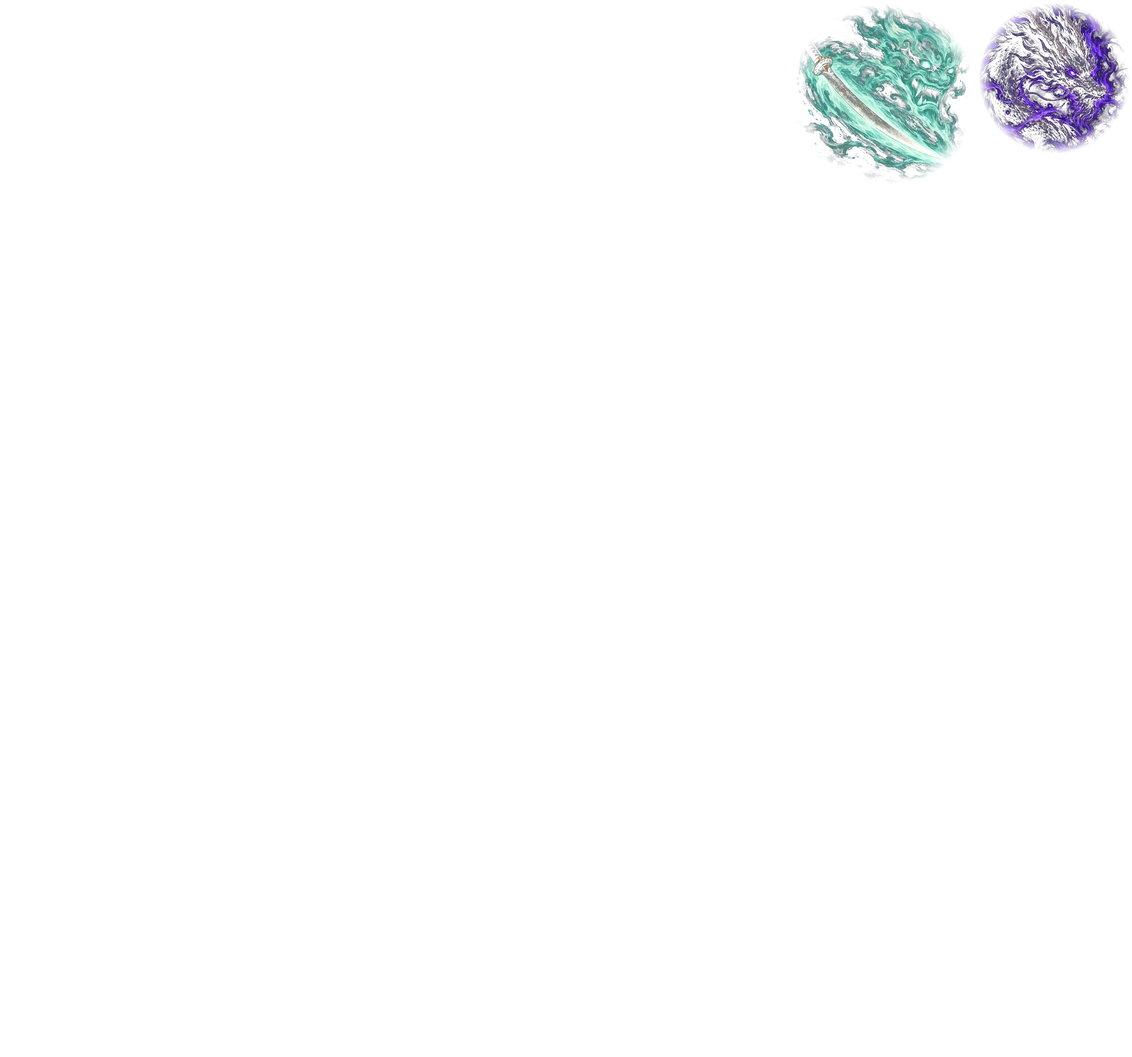
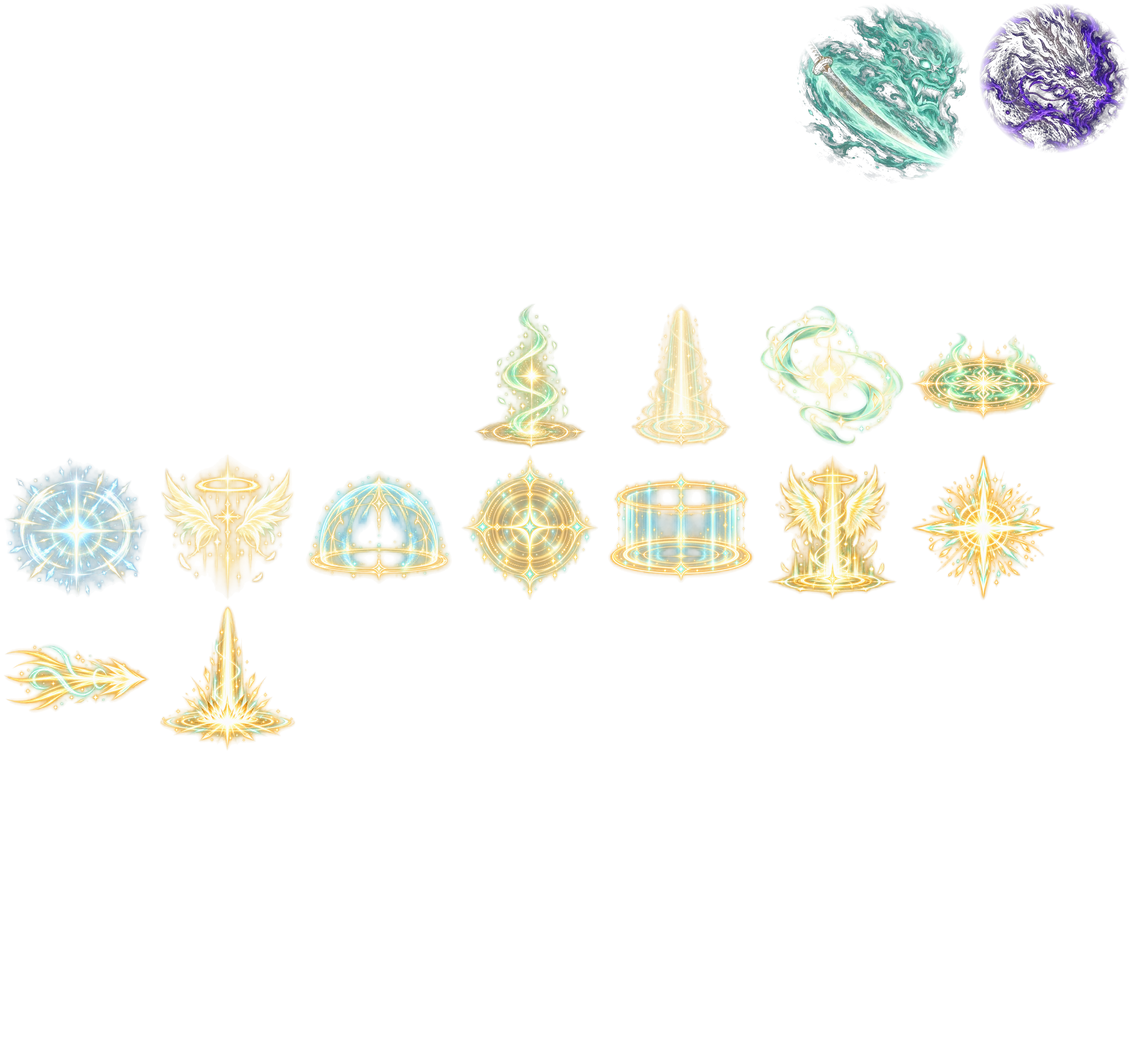
V032: 힐러 (신) 공격 기술 이펙트 교체
Claude-Session: https://claude.ai/code/session_01N3yxjf91oYEcwa6fGZuT1R

Changed region(s): [[0.0, 0.2769, 0.924, 0.7077], [0.0, 0.6154, 0.1232, 0.6769]]

diff --git a/index.html b/index.html
@@ -499,7 +499,7 @@ table.st tr+tr{border-top:1px solid rgba(232,224,204,.07)}
   <div class="screen" id="title">
     <!-- V010: 그려진 타이틀 화면. 그림 속 버튼 자리에 투명한 진짜 버튼을 겹쳐 둔다 (위치는 그림 크기 대비 %) -->
     <div class="tart" role="img" aria-label="혈월야행 · 핏빛 달 아래, 이름 잃은 망자의 끝없는 사냥">
-      <span class="tver num" id="tVer">V031</span>
+      <span class="tver num" id="tVer">V032</span>
       <button class="thot" id="bNew" aria-label="새로 깨어나기"></button>
       <button class="thot" id="bCont" aria-label="이어하기"></button>
       <button class="thot" id="fsTitle" aria-label="전체화면으로"></button>
@@ -1709,19 +1709,19 @@ const SK={
  healer:[
   {n:'정화구',g:'光',cd:.7,range:480,desc:'정화의 빛구슬을 쏘아 적을 공격한다.',
    tip:s=>[['피해',PCT(1.1)],['효과','적을 살짝 쫓아간다']],
-   f(s){const t=nearest(pl.x,pl.y,s.range);if(!t)return 0;const a=aimAt(t);shoot({x:pl.x,y:pl.y,vx:Math.cos(a)*600,vy:Math.sin(a)*600,r:9,dmg:s.dmg(1.1),st:'light',c:'#f6eec0',l:1.1,home:3});return 1}},
+   f(s){const t=nearest(pl.x,pl.y,s.range);if(!t)return 0;const a=aimAt(t);shoot({x:pl.x,y:pl.y,vx:Math.cos(a)*600,vy:Math.sin(a)*600,r:9,dmg:s.dmg(1.1),st:'light',c:'#f6eec0',l:1.1,home:3,onHit:(p,e)=>KX.lightHit(e.x,e.y)});return 1}},
   {n:'정화의 빛',g:'癒',cd:5,range:210,desc:'몸에서 정화의 빛을 터뜨려 주변 적에게 피해를 주고 잠시 둔화시킨다. 덤으로 체력을 회복한다.',
    tip:s=>[['피해',PCT(1.7)],['범위',`자신 주변 반경 ${Math.round(s.R(200))}`],['회복','최대 체력 6.5%'],['효과','둔화 1.2초']],
    f(s){if(!nearest(pl.x,pl.y,s.R(s.range))&&pl.hp>pl.d.mhp*.6)return 0;hitCircle(pl.x,pl.y,s.R(200),s.dmg(1.7),{slow:1.2,kb:90});healPlayer(pl.d.mhp*.065);KX.h1(s.R(1));return 1}},
   {n:'성십자',g:'十',cd:8,range:460,desc:'빛의 십자가를 던진다. 날아간 자리에 박혀 2.5초 동안 주변 적을 끌어당기며 계속 피해를 준다.',
    tip:s=>[['피해',`${PCT(1.3)} + ${PCT(.6)} × 약 8회`],['범위',`끌어당김 반경 ${Math.round(s.R(230))}`],['지속','2.5초']],
-   f(s){const t=densest(s.range,160);if(!t)return 0;const a=aimAt(t),d=Math.min(Math.hypot(t.x-pl.x,t.y-pl.y),440),sp=1100,l=d/sp,r=s.R(230);shoot({x:pl.x,y:pl.y,vx:Math.cos(a)*sp,vy:Math.sin(a)*sp,r:16,pierce:99,dmg:s.dmg(1.3),st:'cross',c:'#fff3c4',l,onEnd:p=>{addZone({x:p.x,y:p.y,r,l:2.5,tick:.3,dmg:s.dmg(.6),c:'#fff3c4',kind:'pull',pull:300});kring(p.x,p.y,'#fff3c4',r,20,.5);kflash(p.x,p.y-30,'#fff3c4',150,.25);shake(4)}});return 1}},
+   f(s){const t=densest(s.range,160);if(!t)return 0;const a=aimAt(t),d=Math.min(Math.hypot(t.x-pl.x,t.y-pl.y),440),sp=1100,l=d/sp,r=s.R(230);shoot({x:pl.x,y:pl.y,vx:Math.cos(a)*sp,vy:Math.sin(a)*sp,r:16,pierce:99,dmg:s.dmg(1.3),st:'cross',c:'#fff3c4',l,onEnd:p=>{addZone({x:p.x,y:p.y,r,l:2.5,tick:.3,dmg:s.dmg(.6),c:'#fff3c4',kind:'pull',pull:300});KX.crossEnd(p.x,p.y,r);shake(4)}});return 1}},
   {n:'축복',g:'祝',cd:16,range:420,buff:1,desc:'스스로에게 축복을 내린다.',
    tip:s=>[['지속','8초'],['효과','공격력 +35% · 이동속도 +20% · 기술 회전 +15%']],
    f(s){if(!nearest(pl.x,pl.y,s.range))return 0;pl.buffs.bless=8;KX.h3();addText(pl.x,pl.y-44,'축복','#f3cf45',15);return 1}},
   {n:'천벌',g:'罰',cd:20,range:560,desc:'주변 적 최대 여덟에게 빛기둥을 내리꽂아 큰 피해를 주고 기절시킨다.',
    tip:s=>[['피해',`${PCT(3.8)} × 최대 8곳`],['범위',`기둥마다 반경 ${Math.round(s.R(80))}`],['효과','기절 0.8초']],
-   f(s){const ts=nearestN(pl.x,pl.y,s.range,8);if(!ts.length)return 0;aimAt(ts[0]);const r=s.R(80);ts.forEach((t,i)=>{const x=t.x,y=t.y;kp('magic_03',x,y,{c:'#ffe08a',s:130*r/80,s1:70*r/80,l:.3+i*.06,gnd:1,vr:3,fi:.05});later(.3+i*.06,()=>{hitCircle(x,y,r,s.dmg(3.8),{stun:.8});KX.smite(x,y,i<3,r/80)})});shake(8);return 1}}]};
+   f(s){const ts=nearestN(pl.x,pl.y,s.range,8);if(!ts.length)return 0;aimAt(ts[0]);const r=s.R(80);ts.forEach((t,i)=>{const x=t.x,y=t.y;KX.smiteMark(x,y,r,i);later(.3+i*.06,()=>{hitCircle(x,y,r,s.dmg(3.8),{stun:.8});KX.smite(x,y,i<3,r/80)})});shake(8);return 1}}]};
 /* 6세트 효과: 15레벨 기술(5번째)을 교체한다 */
 const SETN={warrior:'혈귀무신',archer:'만궁천랑',mage:'성운도사',healer:'천벌무녀'};
 const VOLLEY_T=6,VOLLEY_R=700;
@@ -1832,7 +1832,7 @@ const skKey=i=>i===4&&setCount()>=6?'set':String(i);
 const skFx=k=>(pl.set&&pl.set.skFx&&pl.set.skFx[k])||{};
 const fxOf=k=>{const f=skFx(k);return {off:!!f.off,old:f.v==='old',k}};
 /* 지금 (신) 이펙트가 따로 있는 기술 (없는 기술은 (구)와 같은 그림을 쓴다 · 앞으로 바뀌면 여기에 추가) */
-const FXNEW={warrior:{0:1,1:1,2:1,3:1,4:1,set:1},mage:{0:1,1:1,2:1,3:1,4:1,set:1}};
+const FXNEW={warrior:{0:1,1:1,2:1,3:1,4:1,set:1},mage:{0:1,1:1,2:1,3:1,4:1,set:1},healer:{0:1,1:1,2:1,4:1,set:1}};
 function later(t,fn){const c=FXC;G.timers.push({t,fn:c?()=>fxCtx(c,fn):fn})}
 function healPlayer(a){a*=healMul();const before=pl.hp;pl.hp=Math.min(pl.d.mhp,pl.hp+a);const got=pl.hp-before;if(got>=1)addText(pl.x,pl.y-36,'+'+fmt(got),'#7fe8b4',13)}
 function hurtPlayer(d){if(G.dead>0||pl.iframe>0||pl.dash>0||pl.buffs.r_inv>0)return;if(pl.buffs.iron>0)pl.ironAcc=(pl.ironAcc||0)+d;let dd=d*(1-pl.d.dr)*(1-(pl.d.pdr||0))*(pl.buffs.iron>0?.5:1);
@@ -3106,7 +3106,7 @@ const A=p=>(window.ASSETS&&window.ASSETS[p])||p;
 const IMG={},FLASH={},TINT={};
 /* V030 아틀라스: 작은 그림(이펙트 조각·장비/기술/메뉴 아이콘 등 186장)을 무손실로 3장에 모아 두고, 불러온 뒤 원래 크기 그대로 잘라 쓴다 (화질 변화 없음)
    ui:1 묶음은 화면 글자 사이에 넣는 <img>에도 쓰이므로 잘라 낸 그림을 주소(data URL)로 바꿔 A()가 돌려주게 한다 */
-const ATLAS=[{"f":"img/atlas_fx0.webp","ui":0,"it":{"img/k_msig1.webp":[4,4,512,512],"img/k_msig2.webp":[520,4,512,512],"img/k_mdrg.webp":[1036,4,320,320],"img/fx_w_ghost.webp":[1360,4,320,320],"img/fx_m_dragon.webp":[1684,4,260,260],"img/k_circle_02.webp":[4,520,256,256],"img/k_circle_03.webp":[264,520,256,256],"img/k_dirt_01.webp":[524,520,256,256],"img/k_light_01.webp":[784,520,256,256],"img/k_magic_01.webp":[1044,520,256,256],"img/k_magic_02.webp":[1304,520,256,256],"img/k_magic_03.webp":[1564,520,256,256],"img/k_mb0.webp":[4,780,256,256],"img/k_mb2.webp":[264,780,256,256],"img/k_mb3.webp":[524,780,256,256],"img/k_mc2.webp":[784,780,256,256],"img/k_mdb2.webp":[1044,780,256,256],"img/k_mdb3.webp":[1304,780,256,256],"img/k_mf7.webp":[1564,780,256,256],"img/k_mf8.webp":[4,1040,256,256],"img/k_mi0.webp":[264,1040,256,256],"img/k_mi14.webp":[524,1040,256,256],"img/k_mi15.webp":[784,1040,256,256],"img/k_mi5.webp":[1044,1040,256,256],"img/k_mi7.webp":[1304,1040,256,256],"img/k_mtail.webp":[1564,1040,256,256],"img/k_mwing.webp":[4,1300,256,256],"img/k_scorch_01.webp":[264,1300,256,256],"img/k_smoke_04.webp":[524,1300,256,256],"img/k_smoke_07.webp":[784,1300,256,256],"img/k_smoke_10.webp":[1044,1300,256,256],"img/k_spark_02.webp":[1304,1300,256,256],"img/k_twirl_01.webp":[1564,1300,256,256],"img/k_twirl_03.webp":[4,1560,256,256],"img/k_w101.webp":[264,1560,256,256],"img/k_w102.webp":[524,1560,256,256],"img/k_w110.webp":[784,1560,256,256],"img/k_w111.webp":[1044,1560,256,256],"img/k_w112.webp":[1304,1560,256,256],"img/k_w121.webp":[1564,1560,256,256]}},{"f":"img/atlas_fx1.webp","ui":0,"it":{"img/k_w122.webp":[4,4,256,256],"img/k_w123.webp":[264,4,256,256],"img/k_w132.webp":[524,4,256,256],"img/k_w202.webp":[784,4,256,256],"img/k_w230.webp":[1044,4,256,256],"img/k_w222.webp":[1304,4,249,249],"img/k_mfox.webp":[1557,4,247,247],"img/k_mbs.webp":[4,264,242,242],"img/k_w131.webp":[250,264,242,242],"img/k_w113.webp":[496,264,241,241],"img/k_w212.webp":[741,264,239,239],"img/k_mf0.webp":[984,264,235,235],"img/k_w221.webp":[1223,264,235,235],"img/k_mclaw.webp":[1462,264,232,232],"img/k_w223.webp":[1698,264,231,231],"img/k_w100.webp":[4,510,230,230],"img/k_w210.webp":[238,510,230,230],"img/k_w213.webp":[472,510,229,229],"img/k_w233.webp":[705,510,229,229],"img/k_w103.webp":[938,510,228,228],"img/k_mi6.webp":[1170,510,227,227],"img/k_w220.webp":[1401,510,227,227],"img/k_w203.webp":[1632,510,224,224],"img/k_mbo.webp":[4,744,223,223],"img/k_w021.webp":[231,744,220,220],"img/k_w020.webp":[455,744,219,219],"img/k_w231.webp":[678,744,219,219],"img/k_w232.webp":[901,744,218,218],"img/k_mf1.webp":[1123,744,217,217],"img/k_mw.webp":[1344,744,217,217],"img/k_w211.webp":[1565,744,217,217],"img/k_w130.webp":[1786,744,216,216],"img/k_w023.webp":[4,971,213,213],"img/k_w011.webp":[221,971,210,210],"img/k_mc1.webp":[435,971,205,205],"img/k_w002.webp":[644,971,205,205],"img/k_w201.webp":[853,971,204,204],"img/k_mf9.webp":[1061,971,201,201],"img/k_w133.webp":[1266,971,199,199],"img/k_mc3.webp":[1469,971,196,196],"img/k_w022.webp":[1669,971,194,194],"img/k_w031.webp":[4,1188,193,193],"img/k_w120.webp":[201,1188,193,193],"img/k_w200.webp":[398,1188,192,192],"img/k_w012.webp":[594,1188,183,183],"img/k_w013.webp":[781,1188,182,182],"img/k_w001.webp":[967,1188,181,181],"img/k_w003.webp":[1152,1188,174,174],"img/k_w000.webp":[1330,1188,171,171],"img/fx_m_tal.webp":[1505,1188,96,170],"img/k_w033.webp":[1605,1188,169,169],"img/k_w010.webp":[1778,1188,167,167],"img/fx_m_fox.webp":[4,1385,160,160],"img/fx_h_cross.webp":[168,1385,130,148],"img/k_mi8.webp":[302,1385,146,146],"img/k_w032.webp":[452,1385,140,140],"img/k_circle_05.webp":[596,1385,128,128],"img/k_fire_01.webp":[728,1385,128,128],"img/k_flame_05.webp":[860,1385,128,128],"img/k_flare_01.webp":[992,1385,128,128],"img/k_muzzle_02.webp":[1124,1385,128,128],"img/k_scorch_03.webp":[1256,1385,128,128],"img/k_scratch_01.webp":[1388,1385,128,128],"img/k_slash_01.webp":[1520,1385,128,128],"img/k_slash_03.webp":[1652,1385,128,128],"img/k_slash_04.webp":[1784,1385,128,128],"img/k_spark_05.webp":[1916,1385,128,128],"img/k_spark_07.webp":[4,1549,128,128],"img/k_star_04.webp":[136,1549,128,128],"img/k_star_06.webp":[268,1549,128,128],"img/k_star_08.webp":[400,1549,128,128],"img/k_star_09.webp":[532,1549,128,128],"img/k_trace_01.webp":[664,1549,128,128],"img/k_trace_04.webp":[796,1549,128,128],"img/k_w030.webp":[928,1549,117,117],"img/k_mf3.webp":[1049,1549,116,116],"img/k_mb5.webp":[1169,1549,88,88],"img/k_mi12.webp":[1261,1549,67,67],"img/fx_a_arrow.webp":[1332,1549,220,28]}},{"f":"img/atlas_ui0.webp","ui":1,"it":{"img/eq_0_armor.webp":[4,4,128,128],"img/eq_0_boots.webp":[136,4,128,128],"img/eq_0_helm.webp":[268,4,128,128],"img/eq_0_neck.webp":[400,4,128,128],"img/eq_0_ring.webp":[532,4,128,128],"img/eq_0_weapon.webp":[664,4,128,128],"img/eq_1_armor.webp":[796,4,128,128],"img/eq_1_boots.webp":[928,4,128,128],"img/eq_1_helm.webp":[1060,4,128,128],"img/eq_1_neck.webp":[1192,4,128,128],"img/eq_1_ring.webp":[1324,4,128,128],"img/eq_1_weapon.webp":[1456,4,128,128],"img/eq_2_armor.webp":[1588,4,128,128],"img/eq_2_boots.webp":[1720,4,128,128],"img/eq_2_helm.webp":[1852,4,128,128],"img/eq_2_neck.webp":[4,136,128,128],"img/eq_2_ring.webp":[136,136,128,128],"img/eq_2_weapon.webp":[268,136,128,128],"img/eq_3_armor.webp":[400,136,128,128],"img/eq_3_boots.webp":[532,136,128,128],"img/eq_3_helm.webp":[664,136,128,128],"img/eq_3_neck.webp":[796,136,128,128],"img/eq_3_ring.webp":[928,136,128,128],"img/eq_3_weapon.webp":[1060,136,128,128],"img/eq_4_armor.webp":[1192,136,128,128],"img/eq_4_boots.webp":[1324,136,128,128],"img/eq_4_helm.webp":[1456,136,128,128],"img/eq_4_neck.webp":[1588,136,128,128],"img/eq_4_ring.webp":[1720,136,128,128],"img/eq_4_weapon.webp":[1852,136,128,128],"img/eq_5_armor.webp":[4,268,128,128],"img/eq_5_boots.webp":[136,268,128,128],"img/eq_5_helm.webp":[268,268,128,128],"img/eq_5_neck.webp":[400,268,128,128],"img/eq_5_ring.webp":[532,268,128,128],"img/eq_5_weapon.webp":[664,268,128,128],"img/eq_6_armor.webp":[796,268,128,128],"img/eq_6_boots.webp":[928,268,128,128],"img/eq_6_helm.webp":[1060,268,128,128],"img/eq_6_neck.webp":[1192,268,128,128],"img/eq_6_ring.webp":[1324,268,128,128],"img/eq_6_weapon.webp":[1456,268,128,128],"img/eq_7_armor.webp":[1588,268,128,128],"img/eq_7_boots.webp":[1720,268,128,128],"img/eq_7_helm.webp":[1852,268,128,128],"img/eq_7_neck.webp":[4,400,128,128],"img/eq_7_ring.webp":[136,400,128,128],"img/eq_7_weapon.webp":[268,400,128,128],"img/hud_archer.webp":[400,400,128,128],"img/hud_archer_myth.webp":[532,400,128,128],"img/hud_healer.webp":[664,400,128,128],"img/hud_healer_myth.webp":[796,400,128,128],"img/hud_mage.webp":[928,400,128,128],"img/hud_mage_myth.webp":[1060,400,128,128],"img/hud_warrior.webp":[1192,400,128,128],"img/hud_warrior_myth.webp":[1324,400,128,128],"img/ic_armor.webp":[1456,400,128,128],"img/ic_boots.webp":[1588,400,128,128],"img/ic_helm.webp":[1720,400,128,128],"img/ic_neck.webp":[1852,400,128,128],"img/ic_ring.webp":[4,532,128,128],"img/ic_weapon.webp":[136,532,128,128],"img/pot_0.webp":[268,532,128,128],"img/pot_1.webp":[400,532,128,128],"img/pot_2.webp":[532,532,128,128],"img/sk_archer_0.webp":[664,532,128,128],"img/sk_archer_1.webp":[796,532,128,128],"img/sk_archer_2.webp":[928,532,128,128],"img/sk_archer_3.webp":[1060,532,128,128],"img/sk_archer_4.webp":[1192,532,128,128],"img/sk_archer_set.webp":[1324,532,128,128],"img/sk_dash.webp":[1456,532,128,128],"img/sk_healer_0.webp":[1588,532,128,128],"img/sk_healer_1.webp":[1720,532,128,128],"img/sk_healer_2.webp":[1852,532,128,128],"img/sk_healer_3.webp":[4,664,128,128],"img/sk_healer_4.webp":[136,664,128,128],"img/sk_healer_set.webp":[268,664,128,128],"img/sk_mage_0.webp":[400,664,128,128],"img/sk_mage_1.webp":[532,664,128,128],"img/sk_mage_2.webp":[664,664,128,128],"img/sk_mage_3.webp":[796,664,128,128],"img/sk_mage_4.webp":[928,664,128,128],"img/sk_mage_set.webp":[1060,664,128,128],"img/sk_warrior_0.webp":[1192,664,128,128],"img/sk_warrior_1.webp":[1324,664,128,128],"img/sk_warrior_2.webp":[1456,664,128,128],"img/sk_warrior_3.webp":[1588,664,128,128],"img/sk_warrior_4.webp":[1720,664,128,128],"img/sk_warrior_set.webp":[1852,664,128,128],"img/mi_ach.webp":[4,796,96,96],"img/mi_bag.webp":[104,796,96,96],"img/mi_map.webp":[204,796,96,96],"img/mi_party.webp":[304,796,96,96],"img/mi_pet.webp":[404,796,96,96],"img/mi_quest.webp":[504,796,96,96],"img/mi_relic.webp":[604,796,96,96],"img/mi_set.webp":[704,796,96,96],"img/mi_skill.webp":[804,796,96,96],"img/mi_stat.webp":[904,796,96,96]}}];
+const ATLAS=[{"f":"img/atlas_fx0.webp","ui":0,"it":{"img/k_msig1.webp":[4,4,512,512],"img/k_msig2.webp":[520,4,512,512],"img/k_mdrg.webp":[1036,4,320,320],"img/fx_w_ghost.webp":[1360,4,320,320],"img/fx_m_dragon.webp":[1684,4,260,260],"img/k_circle_02.webp":[4,520,256,256],"img/k_circle_03.webp":[264,520,256,256],"img/k_dirt_01.webp":[524,520,256,256],"img/k_h00.webp":[784,520,256,256],"img/k_h01.webp":[1044,520,256,256],"img/k_h02.webp":[1304,520,256,256],"img/k_h03.webp":[1564,520,256,256],"img/k_h10.webp":[4,780,256,256],"img/k_h13.webp":[264,780,256,256],"img/k_h20.webp":[524,780,256,256],"img/k_h21.webp":[784,780,256,256],"img/k_h23.webp":[1044,780,256,256],"img/k_h30.webp":[1304,780,256,256],"img/k_h31.webp":[1564,780,256,256],"img/k_h32.webp":[4,1040,256,256],"img/k_h33.webp":[264,1040,256,256],"img/k_light_01.webp":[524,1040,256,256],"img/k_magic_01.webp":[784,1040,256,256],"img/k_magic_02.webp":[1044,1040,256,256],"img/k_magic_03.webp":[1304,1040,256,256],"img/k_mb0.webp":[1564,1040,256,256],"img/k_mb2.webp":[4,1300,256,256],"img/k_mb3.webp":[264,1300,256,256],"img/k_mc2.webp":[524,1300,256,256],"img/k_mdb2.webp":[784,1300,256,256],"img/k_mdb3.webp":[1044,1300,256,256],"img/k_mf7.webp":[1304,1300,256,256],"img/k_mf8.webp":[1564,1300,256,256],"img/k_mi0.webp":[4,1560,256,256],"img/k_mi14.webp":[264,1560,256,256],"img/k_mi15.webp":[524,1560,256,256],"img/k_mi5.webp":[784,1560,256,256],"img/k_mi7.webp":[1044,1560,256,256],"img/k_mtail.webp":[1304,1560,256,256],"img/k_mwing.webp":[1564,1560,256,256]}},{"f":"img/atlas_fx1.webp","ui":0,"it":{"img/k_scorch_01.webp":[4,4,256,256],"img/k_smoke_04.webp":[264,4,256,256],"img/k_smoke_07.webp":[524,4,256,256],"img/k_smoke_10.webp":[784,4,256,256],"img/k_spark_02.webp":[1044,4,256,256],"img/k_twirl_01.webp":[1304,4,256,256],"img/k_twirl_03.webp":[1564,4,256,256],"img/k_w101.webp":[4,264,256,256],"img/k_w102.webp":[264,264,256,256],"img/k_w110.webp":[524,264,256,256],"img/k_w111.webp":[784,264,256,256],"img/k_w112.webp":[1044,264,256,256],"img/k_w121.webp":[1304,264,256,256],"img/k_w122.webp":[1564,264,256,256],"img/k_w123.webp":[4,524,256,256],"img/k_w132.webp":[264,524,256,256],"img/k_w202.webp":[524,524,256,256],"img/k_w230.webp":[784,524,256,256],"img/k_w222.webp":[1044,524,249,249],"img/k_mfox.webp":[1297,524,247,247],"img/k_mbs.webp":[1548,524,242,242],"img/k_w131.webp":[1794,524,242,242],"img/k_w113.webp":[4,784,241,241],"img/k_w212.webp":[249,784,239,239],"img/k_mf0.webp":[492,784,235,235],"img/k_w221.webp":[731,784,235,235],"img/k_mclaw.webp":[970,784,232,232],"img/k_w223.webp":[1206,784,231,231],"img/k_w100.webp":[1441,784,230,230],"img/k_w210.webp":[1675,784,230,230],"img/k_w213.webp":[4,1029,229,229],"img/k_w233.webp":[237,1029,229,229],"img/k_w103.webp":[470,1029,228,228],"img/k_mi6.webp":[702,1029,227,227],"img/k_w220.webp":[933,1029,227,227],"img/k_w203.webp":[1164,1029,224,224],"img/k_mbo.webp":[1392,1029,223,223],"img/k_w021.webp":[1619,1029,220,220],"img/k_w020.webp":[4,1262,219,219],"img/k_w231.webp":[227,1262,219,219],"img/k_w232.webp":[450,1262,218,218],"img/k_mf1.webp":[672,1262,217,217],"img/k_mw.webp":[893,1262,217,217],"img/k_w211.webp":[1114,1262,217,217],"img/k_w130.webp":[1335,1262,216,216],"img/k_w023.webp":[1555,1262,213,213],"img/k_w011.webp":[1772,1262,210,210],"img/k_mc1.webp":[4,1485,205,205],"img/k_w002.webp":[213,1485,205,205],"img/k_w201.webp":[422,1485,204,204],"img/k_mf9.webp":[630,1485,201,201],"img/k_w133.webp":[835,1485,199,199],"img/k_mc3.webp":[1038,1485,196,196],"img/k_w022.webp":[1238,1485,194,194],"img/k_w031.webp":[1436,1485,193,193],"img/k_w120.webp":[1633,1485,193,193],"img/k_w200.webp":[1830,1485,192,192],"img/k_w012.webp":[4,1694,183,183],"img/k_w013.webp":[191,1694,182,182],"img/k_w001.webp":[377,1694,181,181],"img/k_w003.webp":[562,1694,174,174],"img/k_w000.webp":[740,1694,171,171],"img/fx_m_tal.webp":[915,1694,96,170],"img/k_w033.webp":[1015,1694,169,169],"img/k_w010.webp":[1188,1694,167,167],"img/fx_m_fox.webp":[1359,1694,160,160],"img/fx_h_cross.webp":[1523,1694,130,148],"img/k_mi8.webp":[1657,1694,146,146],"img/k_w032.webp":[1807,1694,140,140],"img/k_circle_05.webp":[4,1881,128,128],"img/k_fire_01.webp":[136,1881,128,128],"img/k_flame_05.webp":[268,1881,128,128],"img/k_flare_01.webp":[400,1881,128,128],"img/k_muzzle_02.webp":[532,1881,128,128],"img/k_scorch_03.webp":[664,1881,128,128],"img/k_scratch_01.webp":[796,1881,128,128],"img/k_slash_01.webp":[928,1881,128,128],"img/k_slash_03.webp":[1060,1881,128,128],"img/k_slash_04.webp":[1192,1881,128,128],"img/k_spark_05.webp":[1324,1881,128,128],"img/k_spark_07.webp":[1456,1881,128,128],"img/k_star_04.webp":[1588,1881,128,128],"img/k_star_06.webp":[1720,1881,128,128],"img/k_star_08.webp":[1852,1881,128,128]}},{"f":"img/atlas_fx2.webp","ui":0,"it":{"img/k_star_09.webp":[4,4,128,128],"img/k_trace_01.webp":[136,4,128,128],"img/k_trace_04.webp":[268,4,128,128],"img/k_w030.webp":[400,4,117,117],"img/k_mf3.webp":[521,4,116,116],"img/k_mb5.webp":[641,4,88,88],"img/k_mi12.webp":[733,4,67,67],"img/fx_a_arrow.webp":[804,4,220,28]}},{"f":"img/atlas_ui0.webp","ui":1,"it":{"img/eq_0_armor.webp":[4,4,128,128],"img/eq_0_boots.webp":[136,4,128,128],"img/eq_0_helm.webp":[268,4,128,128],"img/eq_0_neck.webp":[400,4,128,128],"img/eq_0_ring.webp":[532,4,128,128],"img/eq_0_weapon.webp":[664,4,128,128],"img/eq_1_armor.webp":[796,4,128,128],"img/eq_1_boots.webp":[928,4,128,128],"img/eq_1_helm.webp":[1060,4,128,128],"img/eq_1_neck.webp":[1192,4,128,128],"img/eq_1_ring.webp":[1324,4,128,128],"img/eq_1_weapon.webp":[1456,4,128,128],"img/eq_2_armor.webp":[1588,4,128,128],"img/eq_2_boots.webp":[1720,4,128,128],"img/eq_2_helm.webp":[1852,4,128,128],"img/eq_2_neck.webp":[4,136,128,128],"img/eq_2_ring.webp":[136,136,128,128],"img/eq_2_weapon.webp":[268,136,128,128],"img/eq_3_armor.webp":[400,136,128,128],"img/eq_3_boots.webp":[532,136,128,128],"img/eq_3_helm.webp":[664,136,128,128],"img/eq_3_neck.webp":[796,136,128,128],"img/eq_3_ring.webp":[928,136,128,128],"img/eq_3_weapon.webp":[1060,136,128,128],"img/eq_4_armor.webp":[1192,136,128,128],"img/eq_4_boots.webp":[1324,136,128,128],"img/eq_4_helm.webp":[1456,136,128,128],"img/eq_4_neck.webp":[1588,136,128,128],"img/eq_4_ring.webp":[1720,136,128,128],"img/eq_4_weapon.webp":[1852,136,128,128],"img/eq_5_armor.webp":[4,268,128,128],"img/eq_5_boots.webp":[136,268,128,128],"img/eq_5_helm.webp":[268,268,128,128],"img/eq_5_neck.webp":[400,268,128,128],"img/eq_5_ring.webp":[532,268,128,128],"img/eq_5_weapon.webp":[664,268,128,128],"img/eq_6_armor.webp":[796,268,128,128],"img/eq_6_boots.webp":[928,268,128,128],"img/eq_6_helm.webp":[1060,268,128,128],"img/eq_6_neck.webp":[1192,268,128,128],"img/eq_6_ring.webp":[1324,268,128,128],"img/eq_6_weapon.webp":[1456,268,128,128],"img/eq_7_armor.webp":[1588,268,128,128],"img/eq_7_boots.webp":[1720,268,128,128],"img/eq_7_helm.webp":[1852,268,128,128],"img/eq_7_neck.webp":[4,400,128,128],"img/eq_7_ring.webp":[136,400,128,128],"img/eq_7_weapon.webp":[268,400,128,128],"img/hud_archer.webp":[400,400,128,128],"img/hud_archer_myth.webp":[532,400,128,128],"img/hud_healer.webp":[664,400,128,128],"img/hud_healer_myth.webp":[796,400,128,128],"img/hud_mage.webp":[928,400,128,128],"img/hud_mage_myth.webp":[1060,400,128,128],"img/hud_warrior.webp":[1192,400,128,128],"img/hud_warrior_myth.webp":[1324,400,128,128],"img/ic_armor.webp":[1456,400,128,128],"img/ic_boots.webp":[1588,400,128,128],"img/ic_helm.webp":[1720,400,128,128],"img/ic_neck.webp":[1852,400,128,128],"img/ic_ring.webp":[4,532,128,128],"img/ic_weapon.webp":[136,532,128,128],"img/pot_0.webp":[268,532,128,128],"img/pot_1.webp":[400,532,128,128],"img/pot_2.webp":[532,532,128,128],"img/sk_archer_0.webp":[664,532,128,128],"img/sk_archer_1.webp":[796,532,128,128],"img/sk_archer_2.webp":[928,532,128,128],"img/sk_archer_3.webp":[1060,532,128,128],"img/sk_archer_4.webp":[1192,532,128,128],"img/sk_archer_set.webp":[1324,532,128,128],"img/sk_dash.webp":[1456,532,128,128],"img/sk_healer_0.webp":[1588,532,128,128],"img/sk_healer_1.webp":[1720,532,128,128],"img/sk_healer_2.webp":[1852,532,128,128],"img/sk_healer_3.webp":[4,664,128,128],"img/sk_healer_4.webp":[136,664,128,128],"img/sk_healer_set.webp":[268,664,128,128],"img/sk_mage_0.webp":[400,664,128,128],"img/sk_mage_1.webp":[532,664,128,128],"img/sk_mage_2.webp":[664,664,128,128],"img/sk_mage_3.webp":[796,664,128,128],"img/sk_mage_4.webp":[928,664,128,128],"img/sk_mage_set.webp":[1060,664,128,128],"img/sk_warrior_0.webp":[1192,664,128,128],"img/sk_warrior_1.webp":[1324,664,128,128],"img/sk_warrior_2.webp":[1456,664,128,128],"img/sk_warrior_3.webp":[1588,664,128,128],"img/sk_warrior_4.webp":[1720,664,128,128],"img/sk_warrior_set.webp":[1852,664,128,128],"img/mi_ach.webp":[4,796,96,96],"img/mi_bag.webp":[104,796,96,96],"img/mi_map.webp":[204,796,96,96],"img/mi_party.webp":[304,796,96,96],"img/mi_pet.webp":[404,796,96,96],"img/mi_quest.webp":[504,796,96,96],"img/mi_relic.webp":[604,796,96,96],"img/mi_set.webp":[704,796,96,96],"img/mi_skill.webp":[804,796,96,96],"img/mi_stat.webp":[904,796,96,96]}}];
 const ATL={map:{},cv:{}};window.ASSETS=window.ASSETS||{};
 ATLAS.forEach(a=>{for(const p in a.it)ATL.map[p]=1});
 ATL.ready=Promise.all(ATLAS.map(a=>new Promise(res=>{const im=new Image();im.onerror=()=>res();im.onload=()=>{
@@ -3292,8 +3292,8 @@ function drawZone(c,z){const a=Math.min(1,z.l*2.5,(z.ml-z.l)*6+.2),t=G.t;if(z.fx
    case'cloud':{if(!(z.fx&&z.fx.old)){MXD.cloud(c,z,a,t);break}const cy=-200;for(let i=0;i<5;i++){const ox=(i-2)*40+Math.sin(t*1.1+i)*8,oy=cy+Math.sin(t*1.5+i*1.7)*6+(i%2)*16;kdraw(c,i%2?'smoke_07':'smoke_04','#221a36',ox,oy,160,t*.1*(i%2?1:-1)+i,a*.9)}c.globalCompositeOperation='lighter';const fl=(Math.sin(t*23)>.75||Math.sin(t*7.3)>.93)?1:0;kdraw(c,'spark_02','#c9b8ff',Math.sin(t*3)*30,cy,180,t*.3,a*(.2+fl*.6));kdraw(c,'circle_05','#7a5cff',0,cy,280,0,a*(.15+fl*.3),1,.5);c.globalCompositeOperation='source-over';c.strokeStyle='rgba(185,168,255,.18)';c.lineWidth=1;c.beginPath();c.arc(0,0,z.r,0,TAU);c.stroke();break}
    case'whirl':{c.globalCompositeOperation='lighter';const S=z.r*2.2;kdraw(c,'twirl_01','#ff8a4c',0,-14,S,-t*9,a*.9);kdraw(c,'twirl_03','#ffe0c8',0,-14,S*.78,-t*12+1,a*.65);kdraw(c,'circle_05','#ff6a2a',0,-14,S*.55,0,a*.22);break}
    case'tals':{c.rotate(t*4);for(let i=0;i<10;i++){c.save();c.rotate(i*TAU/10);c.translate(z.r*.85,0);c.rotate(t*6);c.fillStyle='#f3cf45';c.fillRect(-5,-8,10,16);c.fillStyle='#b8283c';c.fillRect(-1.5,-6,3,12);c.restore()}break}
-   case'pull':{c.globalCompositeOperation='lighter';kdraw(c,'magic_02','#ffe08a',0,0,z.r*2.2,t*1.2,a*.5);kdraw(c,'twirl_03','#fff3c4',0,0,z.r*1.9,-t*5,a*.5);kdraw(c,'light_01','#fff3c4',0,-60,150,0,a*.45);if(IMG.fx_h_cross){c.globalAlpha=a*.9;c.drawImage(IMG.fx_h_cross,-40,-110,80,92)}break}
-   case'holy':{const b=Math.min(1,(z.ml-z.l)/.4);c.globalCompositeOperation='lighter';kdraw(c,'magic_01','#ffe08a',0,0,z.r*2.25*(.7+.3*b),t*.35,a*.55);kdraw(c,'circle_03','#fff3c4',0,0,z.r*2.6,0,a*.4);kdraw(c,'magic_03','#fff3c4',0,0,z.r*.9,-t*.8,a*.35);break}
+   case'pull':{if(!(z.fx&&z.fx.old)){HXD.pull(c,z,a,t);break}c.globalCompositeOperation='lighter';kdraw(c,'magic_02','#ffe08a',0,0,z.r*2.2,t*1.2,a*.5);kdraw(c,'twirl_03','#fff3c4',0,0,z.r*1.9,-t*5,a*.5);kdraw(c,'light_01','#fff3c4',0,-60,150,0,a*.45);if(IMG.fx_h_cross){c.globalAlpha=a*.9;c.drawImage(IMG.fx_h_cross,-40,-110,80,92)}break}
+   case'holy':{if(!(z.fx&&z.fx.old)){HXD.holy(c,z,a,t);break}const b=Math.min(1,(z.ml-z.l)/.4);c.globalCompositeOperation='lighter';kdraw(c,'magic_01','#ffe08a',0,0,z.r*2.25*(.7+.3*b),t*.35,a*.55);kdraw(c,'circle_03','#fff3c4',0,0,z.r*2.6,0,a*.4);kdraw(c,'magic_03','#fff3c4',0,0,z.r*.9,-t*.8,a*.35);break}
    case'efire':c.globalCompositeOperation='lighter';glow(c,0,0,z.r*1.3,'#ff5a1a',.55);c.globalCompositeOperation='source-over';c.strokeStyle='rgba(255,140,60,.6)';c.lineWidth=2;c.beginPath();c.arc(0,0,z.r,0,TAU);c.stroke();break;
    case'stayw':{const b=Math.min(1,(z.ml-z.l)/.35);c.globalCompositeOperation='lighter';glow(c,0,0,z.r*1.3,'#fff6dc',.45);kdraw(c,'magic_01','#fff2c8',0,0,z.r*2.3*(.7+.3*b),t*.5,a*.7,1,.55);kdraw(c,'magic_03','#ffffff',0,0,z.r*1.5*(.6+.4*b),-t*.9,a*.55,1,.55);kdraw(c,'circle_03','#fff6dc',0,0,z.r*2.6,0,a*.35,1,.55);kdraw(c,'light_01','#fff6dc',0,-90,240,0,a*.35);c.globalCompositeOperation='source-over';c.strokeStyle=`rgba(255,246,220,${.6+Math.sin(t*6)*.2})`;c.lineWidth=2.5;c.beginPath();c.ellipse(0,0,z.r,z.r*.55,0,0,TAU);c.stroke();break}
    case'pool':c.fillStyle='rgba(120,190,40,.22)';circ(c,0,0,z.r);c.strokeStyle='rgba(160,230,80,.5)';c.lineWidth=2;c.beginPath();c.arc(0,0,z.r,0,TAU);c.stroke();break}
@@ -3321,11 +3321,11 @@ function drawProj(c,p){if(p.fx&&p.fx.off&&p.st!=='axe'){c.save();c.globalAlpha=.
      c.rotate(a);c.globalCompositeOperation='lighter';c.strokeStyle=p.c;c.lineWidth=5;c.shadowColor=p.c;c.shadowBlur=14;c.beginPath();c.moveTo(-50,0);c.lineTo(10,0);c.stroke();c.shadowBlur=0;c.fillStyle='#fff';c.beginPath();c.moveTo(16,0);c.lineTo(4,-6);c.lineTo(4,6);c.fill();break;
    case'thunder':if(IMG.k_spark_07){c.rotate(a);c.globalCompositeOperation='lighter';const fl=Math.random()<.5?Math.PI:0;kdraw(c,'circle_05','#5aa0ff',0,0,110,0,.55);kdraw(c,'spark_07','#8fc7ff',-10,0,160,fl,.95,1,.7);kdraw(c,'spark_07','#ffffff',-6,0,120,fl?0:Math.PI,.7,1,.4);kdraw(c,'star_06','#ffffff',8,0,60,G.t*9,.9);c.globalAlpha=1;if(IMG.fx_a_arrow)c.drawImage(IMG.fx_a_arrow,-40,-4,60,8);break}
      c.rotate(a);c.globalCompositeOperation='lighter';c.strokeStyle=p.c;c.lineWidth=3;c.shadowColor='#8fc7ff';c.shadowBlur=18;c.beginPath();c.moveTo(-40,0);for(let i=1;i<6;i++)c.lineTo(-40+i*9,rnd(-6,6));c.lineTo(12,0);c.stroke();c.fillStyle='#fff';circ(c,10,0,6);c.shadowBlur=0;break;
-   case'light':if(IMG.k_circle_05){c.globalCompositeOperation='lighter';kdraw(c,'circle_05','#ffe9a0',0,0,p.r*7,0,.7);kdraw(c,'star_04','#fff8dc',0,0,p.r*5.5,G.t*5,.9);kdraw(c,'circle_05','#ffffff',0,0,p.r*2.6,0,1);break}
+   case'light':if(p.fx&&!OLD){HXD.light(c,p,a);break}if(IMG.k_circle_05){c.globalCompositeOperation='lighter';kdraw(c,'circle_05','#ffe9a0',0,0,p.r*7,0,.7);kdraw(c,'star_04','#fff8dc',0,0,p.r*5.5,G.t*5,.9);kdraw(c,'circle_05','#ffffff',0,0,p.r*2.6,0,1);break}
    case'orb':{c.globalCompositeOperation='lighter';glow(c,0,0,p.r*2.2,p.c,1,.35);break}
    case'hwave':{if(OLD){c.rotate(a);c.globalCompositeOperation='lighter';kdraw(c,'slash_01','#ff7a3c',0,0,p.r*3.6,-Math.PI/2,.95);kdraw(c,'slash_01','#ffe8d0',4,0,p.r*2.7,-Math.PI/2,.75);kdraw(c,'circle_05','#ff8a4c',p.r*.8,0,p.r*2.2,0,.35);break}c.globalCompositeOperation='lighter';c.globalCompositeOperation='source-over';kdraw(c,'w002','#6a1c06',0,0,p.r*3.2,wr('w002',a),.45);c.globalCompositeOperation='lighter';if(!kdraw(c,'w002','#ff7a3c',0,0,p.r*3.4,wr('w002',a),.75)){c.rotate(a);kdraw(c,'slash_01','#ff7a3c',0,0,p.r*3.6,-Math.PI/2,.95);break}kdraw(c,'w002','#ffc890',Math.cos(a)*3,Math.sin(a)*3,p.r*2.5,wr('w002',a),.45);kdraw(c,'w112','#ffb070',-Math.cos(a)*p.r*1.2,-Math.sin(a)*p.r*1.2,p.r*2.6,wr('w112',a),.45);break}
    case'axe':{c.restore();axeShape(c,p.x,p.y-16,p.rot||0,1.15,1,p.fx);return}
-   case'cross':if(IMG.fx_h_cross){c.globalCompositeOperation='lighter';kdraw(c,'light_01','#fff3c4',0,0,110,0,.6);kdraw(c,'star_09','#fff8dc',0,0,90,G.t*6,.7);c.globalAlpha=1;c.rotate(G.t*12);c.drawImage(IMG.fx_h_cross,-22,-25,44,50);break}
+   case'cross':if(!OLD&&IMG.fx_h_cross){HXD.cross(c);break}if(IMG.fx_h_cross){c.globalCompositeOperation='lighter';kdraw(c,'light_01','#fff3c4',0,0,110,0,.6);kdraw(c,'star_09','#fff8dc',0,0,90,G.t*6,.7);c.globalAlpha=1;c.rotate(G.t*12);c.drawImage(IMG.fx_h_cross,-22,-25,44,50);break}
      {c.rotate(G.t*16);c.globalCompositeOperation='lighter';c.shadowColor='#fff3c4';c.shadowBlur=18;c.fillStyle='#fff8dc';c.fillRect(-4,-18,8,36);c.fillRect(-13,-9,26,8);c.shadowBlur=0;break}
    case'wave':if(IMG.k_w102&&!OLD){c.globalCompositeOperation='lighter';c.globalCompositeOperation='source-over';kdraw(c,'w102','#7a0a1a',0,0,p.r*3.6,wr('w102',a),.5);c.globalCompositeOperation='lighter';kdraw(c,'w102','#ff2a45',0,0,p.r*3.8,wr('w102',a),.55);kdraw(c,'w102','#ff8a9a',Math.cos(a)*3,Math.sin(a)*3,p.r*2.6,wr('w102',a),.3);kdraw(c,'w112','#ff4a5a',-Math.cos(a)*p.r*1.3,-Math.sin(a)*p.r*1.3,p.r*2.8,wr('w112',a),.5);break}
    if(IMG.k_slash_01){c.rotate(a);c.globalCompositeOperation='lighter';kdraw(c,'slash_01','#ff2a45',0,0,p.r*4.2,-Math.PI/2,.95);kdraw(c,'slash_01','#ffd0d6',4,0,p.r*3.3,-Math.PI/2,.8);kdraw(c,'circle_05','#ff2a45',p.r*.9,0,p.r*2.6,0,.4);break}
@@ -3345,7 +3345,8 @@ function fxImg(k,x,y,size,l,o){fxPush(Object.assign({k:'img',im:k,x,y,size,l,ml:
 const KTEX=['magic_01','magic_02','magic_03','twirl_01','twirl_03','circle_02','circle_03','smoke_10','scorch_01','light_01','spark_02','dirt_01','smoke_04','smoke_07',
   'circle_05','flare_01','muzzle_02','scorch_03','scratch_01','slash_01','slash_03','slash_04','spark_05','spark_07','star_06','star_08','star_09','trace_01','trace_04','fire_01','flame_05','star_04',
   /* V021 전사 전용 */'w000','w001','w002','w003','w010','w011','w012','w013','w020','w021','w022','w023','w030','w031','w032','w033','w100','w101','w102','w103','w110','w111','w112','w113','w120','w121','w122','w123','w130','w131','w132','w133','w200','w201','w202','w203','w210','w211','w212','w213','w220','w221','w222','w223','w230','w231','w232','w233',
-  /* V031 마법사 (신) · 사용자 제공 그림 + 마법진 */'mf0','mf1','mf3','mf7','mf8','mf9','mfox','mdrg','mdb2','mdb3','mtail','mclaw','mwing','mb0','mb2','mb3','mb5','mbo','mbs','mc1','mc2','mc3','mw','mi0','mi5','mi6','mi7','mi8','mi12','mi14','mi15','msig1','msig2'];
+  /* V031 마법사 (신) · 사용자 제공 그림 + 마법진 */'mf0','mf1','mf3','mf7','mf8','mf9','mfox','mdrg','mdb2','mdb3','mtail','mclaw','mwing','mb0','mb2','mb3','mb5','mbo','mbs','mc1','mc2','mc3','mw','mi0','mi5','mi6','mi7','mi8','mi12','mi14','mi15','msig1','msig2',
+  /* V032 힐러 (신) · 사용자 제공 컬러 그림 (색을 입히지 않고 그대로 쓴다) */'h00','h01','h02','h03','h10','h13','h20','h21','h23','h30','h31','h32','h33'];
 KTEX.forEach(n=>loadImg('k_'+n,A(`img/k_${n}.webp`)));
 const KTC=new Map();
 function ktex(n,col){const im=IMG['k_'+n];if(!im)return null;if(!col)return im;const key=n+col;let t=KTC.get(key);if(t)return t;
@@ -3482,7 +3483,11 @@ const KX={
  talFly(p){if(Math.random()<.5)kp('flame_05',p.x,p.y,{c:'#ff9a3c',s:24,s1:8,vy:-40,l:.3})},
  drgFly(p){if(Math.random()<.6)kp('smoke_07',p.x+rnd(-20,20),p.y+rnd(-20,20),{c:'#5a3cff',s:70,s1:120,vx:rnd(-30,30),vy:rnd(-30,30),r:rnd(0,TAU),vr:rnd(-2,2),l:.6,al:.55});if(Math.random()<.5)kp('flame_05',p.x+rnd(-24,24),p.y+rnd(-24,24),{c:'#9a7aff',s:40,s1:14,r:Math.atan2(p.vy,p.vx)-Math.PI/2,l:.35})},
  cloudHit(z,t){kbolt(z.x+rnd(-50,50),z.y-200,t.x,t.y-10,'#c9b8ff',.24);kring(t.x,t.y,'#d6ccff',8,70,.3);ksparks(t.x,t.y-10,'#e0d8ff',6,300,{s:30})},
- foxHit(){},talStick(){},frostTick(){},drgCast(){},drgHit(){},drgEnd(){},metCast(){}
+ foxHit(){},talStick(){},frostTick(){},drgCast(){},drgHit(){},drgEnd(){},metCast(){},
+ /* V032 힐러 (신) 자리 */
+ crossEnd(x,y,r){kring(x,y,'#fff3c4',r,20,.5);kflash(x,y-30,'#fff3c4',150,.25)},
+ smiteMark(x,y,r,i){kp('magic_03',x,y,{c:'#ffe08a',s:130*r/80,s1:70*r/80,l:.3+i*.06,gnd:1,vr:3,fi:.05})},
+ lightHit(){}
 
 };
 function drawFx(c){c.globalCompositeOperation='lighter';
@@ -3617,8 +3622,41 @@ const KXN={
    kring(x,y,'#ffd77a',40,R*1.15,.8);kring(x,y,'#b06aff',20,R*.9,.6,{del:.06});kring(x,y,'#7ff7e4',10,R*.6,.5,{del:.12});
    kp('smoke_10',x,y-10,{c:'#7a4cff',s:200*sc,s1:900*sc,l:1.1,al:.22,gnd:1,sy:.55});ksmoke(x,y-60,'#5a3cff',10,200*sc,{s:220,sp:140,vy:-60,l:1.4,al:.35});ksmoke(x,y-60,'#ff5aa8',5,160*sc,{s:180,sp:120,vy:-80,l:1.1,al:.25});
    ksparks(x,y-40,'#9fd8ff',28,900*sc,{t:'mi12',s:60,sx:1,g:900});ksparks(x,y-40,'#ffd77a',20,800*sc,{s:56});kstars(x,y-40,'#ffe7a8',18,R*.7,{s:34,vy:-160,l:1.1});
-   kflash(x,y-60,'#ffffff',260,.32);kp('flare_01',x,y-60,{c:'#e0c8ff',s:200,s1:700,l:.35,fi:.03,al:.6})}
+   kflash(x,y-60,'#ffffff',260,.32);kp('flare_01',x,y-60,{c:'#e0c8ff',s:200,s1:700,l:.35,fi:.03,al:.6})},
+ /* ===== V032 힐러 (신) 이펙트: 사용자 제공 금빛·청록 그림(h**)을 색 그대로 겹쳐 움직인다 ===== */
+ /* 정화구 적중: 빛 고리가 터지고 별빛 */
+ lightHit(x,y){kp('h10',x,y-14,{c:null,src:1,s:24,s1:90,l:.3,fi:.05,al:.75,r:rnd(0,TAU)});kp('h31',x,y-14,{c:null,src:1,s:30,s1:70,l:.22,fi:.05,vr:6})},
+ /* 정화의 빛: 발밑 법진 · 빛 고리 충격파 · 빛기둥 · 날개 문장 · 나선 빛 */
+ h1(sc){sc=sc||1;const x=pl.x,y=pl.y;
+   kp('h03',x,y,{c:null,src:1,s:160*sc,s1:470*sc,l:.8,fi:.08,gnd:1,fol:1,al:.6});kp('h10',x,y,{c:null,src:1,s:100*sc,s1:460*sc,l:.45,fi:.03,gnd:1,sy:.55,al:.8});
+   kp('h01',x,y-110,{c:null,src:1,s:200,s1:240,l:.7,fi:.1,fol:1,al:.85});kp('h13',x,y-150,{c:null,src:1,s:90,s1:170,vy:-30,l:.9,fi:.15,fol:1,al:.9});
+   for(const k of[-1,1])kp('h00',x+k*70*sc,y-55,{c:null,src:1,s:70,s1:120,vy:-60,l:.8,fi:.15,del:.08,al:.8});
+   kring(x,y,'#9ff0d8',10,210*sc,.45);kstars(x,y-20,'#fff3c4',14,120*sc,{s:28,vy:-140,l:.9});kflash(x,y-50,'#fff8dc',150,.22)},
+ /* 성십자가 박힐 때: 솟는 빛 · 조여 드는 법진 */
+ crossEnd(x,y,r){kp('h33',x,y-90,{c:null,src:1,s:80,s1:200,l:.5,fi:.05,al:.95});kp('h21',x,y,{c:null,src:1,s:r*2.6,s1:r*2.1,l:.5,fi:.2,gnd:1,vr:-2,al:.8});kflash(x,y-30,'#fff3c4',150,.25)},
+ /* 천벌 조준 표식 */
+ smiteMark(x,y,r,i){kp('h21',x,y,{c:null,src:1,s:150*r/80,s1:80*r/80,l:.3+i*.06,gnd:1,vr:3,fi:.05,al:.9})},
+ /* 천벌 한 대: 날개 빛기둥이 내려앉고 바닥에서 빛가시가 솟는다 (성역 장판에서는 작게) */
+ smite(x,y,big,sc){sc=sc||1;const S=(big?250:170)*Math.min(sc,1.4),S2=(big?190:120)*Math.min(sc,1.4);
+   kp('h30',x,y-S*.47,{c:null,src:1,s:S*.75,s1:S,l:big?.55:.4,fi:.04,al:.95});kp('h33',x,y-S2*.45,{c:null,src:1,s:S2*.3,s1:S2,l:.45,fi:.05,del:.05,al:.9});
+   kp('h03',x,y,{c:null,src:1,s:60*sc,s1:170*sc,l:.5,fi:.05,gnd:1,al:.8});if(big)kp('h10',x,y,{c:null,src:1,s:60*sc,s1:260*sc,l:.4,fi:.03,gnd:1,sy:.55,al:.7});
+   ksparks(x,y-10,'#ffe9a0',big?10:5,380,{s:34,up:-200});kflash(x,y-30,'#fff8dc',big?160:100,.2)},
+ /* 천벌의 성역 펼침: 큰 법진 · 빛의 원통 결계 · 돔 */
+ holy(x,y,sc){sc=sc||1;const R=270*sc;
+   kp('h21',x,y,{c:null,src:1,s:R*.6,s1:R*2.1,l:.8,vr:.8,gnd:1,fi:.05,al:.6});kp('h23',x,y-R*.3,{c:null,src:1,s:R*1.3,s1:R*2.1,l:.9,fi:.1,al:.45});
+   kp('h20',x,y-R*.37,{c:null,src:1,s:R*1.2,s1:R*2.2,l:1,fi:.15,del:.1,al:.35});kbeam(x,y,'#fff3c4',120,460,.6);kflash(x,y-80,'#fff8dc',220,.3)}
 };
+/* V032 힐러 (신) 이펙트 중 매 프레임 직접 그리는 부분 (정화구 · 성십자 · 끌어당김 진 · 성역) */
+const HXD={
+ light(c,p,a){const R=p.r;c.globalCompositeOperation='lighter';kdraw(c,'circle_05','#ffe9a0',0,0,R*5,0,.35);
+   c.rotate(a);c.globalCompositeOperation='source-over';kdraw(c,'h32',null,-R*2.4,0,R*9,0,.95);kdraw(c,'h31',null,0,0,R*4.2,G.t*5,.95)},
+ cross(c){c.globalCompositeOperation='source-over';kdraw(c,'h31',null,0,0,100,G.t*4,.75);
+   c.globalAlpha=1;c.rotate(G.t*12);c.drawImage(IMG.fx_h_cross,-22,-25,44,50)},
+ pull(c,z,a,t){c.globalCompositeOperation='source-over';kdraw(c,'h21',null,0,0,z.r*2.1,t*1.2,a*.5);kdraw(c,'h02',null,0,-20,z.r*1.5,-t*3,a*.45);
+   kdraw(c,'h31',null,0,-110,90+Math.sin(t*8)*10,t*2,a*.8);if(IMG.fx_h_cross){c.globalAlpha=a*.95;c.drawImage(IMG.fx_h_cross,-40,-150,80,92)}},
+ holy(c,z,a,t){const b=Math.min(1,(z.ml-z.l)/.4),R=z.r;c.globalCompositeOperation='source-over';
+   kdraw(c,'h21',null,0,0,R*2.1*(.7+.3*b),t*.35,a*.45);kdraw(c,'h03',null,0,0,R*2.3,0,a*.2);
+   kdraw(c,'h20',null,0,-R*.37,R*2.2,0,a*(.1+Math.sin(t*3)*.04));kdraw(c,'h10',null,0,0,R*.7,-t*.8,a*.25,1,.55)}};
 /* V031 마법사 (신) 이펙트 중 매 프레임 직접 그리는 부분 (투사체 · 구역 · 운석) */
 const MXD={
  fox(c,p,a){const R=p.r,ca=Math.cos(a),sa=Math.sin(a),w=Math.sin(G.t*9+p.x)*.15,S=R*5.4;c.globalCompositeOperation='lighter';
